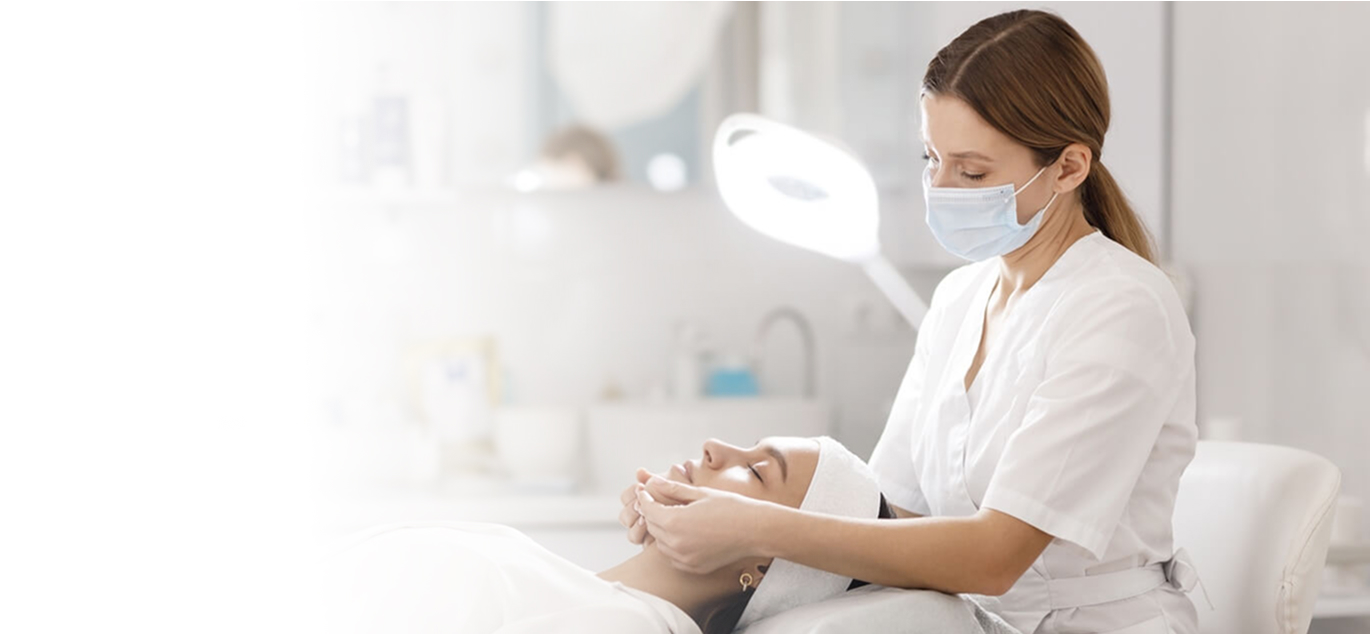
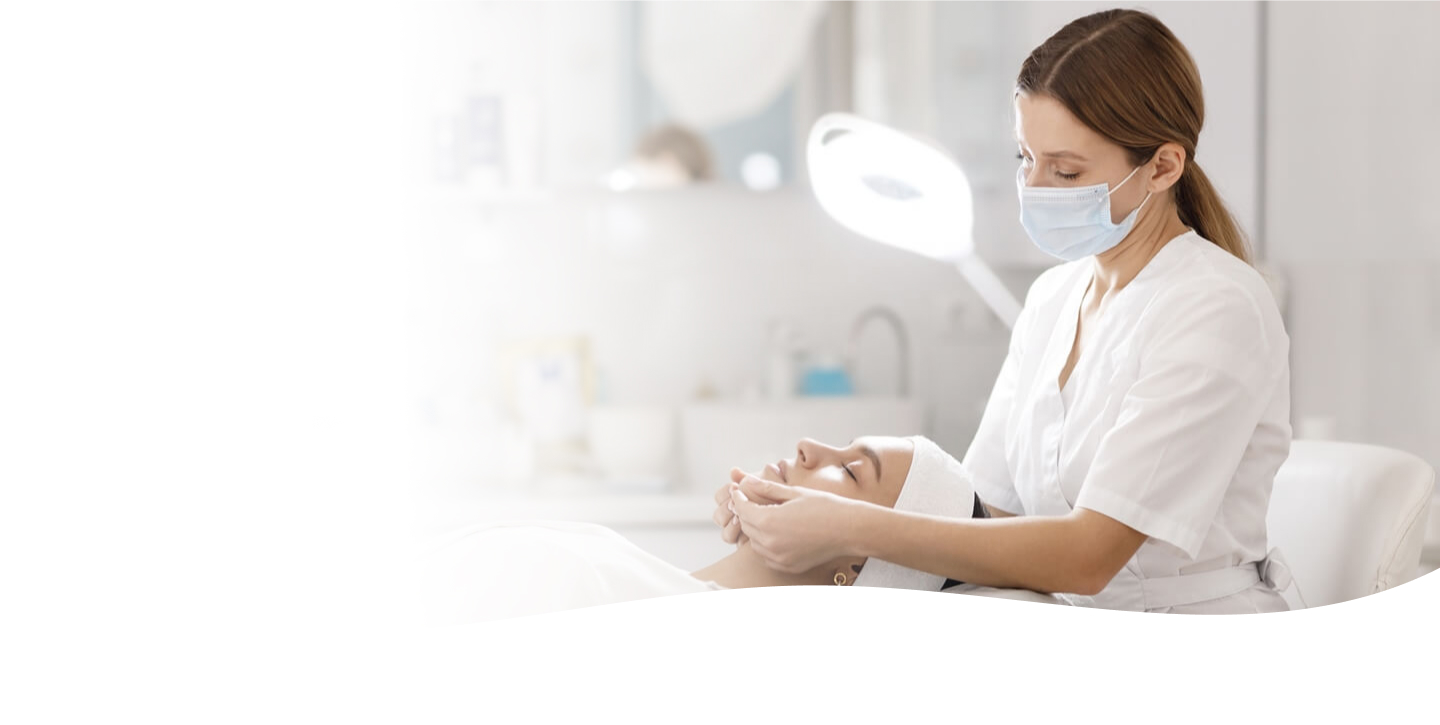
donloaded images and update scss

diff --git a/scss/main.min.css b/scss/main.min.css
@@ -1,1 +1,1 @@
-@font-face{font-display:swap;font-family:"Roboto";font-style:normal;font-weight:400;src:url("../fonts/roboto-v48-latin-regular.woff2") format("woff2")}@font-face{font-display:swap;font-family:"Roboto";font-style:normal;font-weight:600;src:url("../fonts/roboto-v48-latin-600.woff2") format("woff2")}@font-face{font-display:swap;font-family:"Play";font-style:normal;font-weight:400;src:url("../fonts/play-v20-latin-regular.woff2") format("woff2")}@font-face{font-display:swap;font-family:"Play";font-style:normal;font-weight:700;src:url("../fonts/play-v20-latin-700.woff2") format("woff2")}:root{--color-brand-dark: #011c44;--color-brand-dark_blue: #000080;--color-brand-light: #fff;--color-primary-blue: #2b7fff;--color-secondary-light: #4a4a4a;--color-secondary-grey: #747272}body{margin:0;color:var(--color-brand-dark);background-color:var(--color-brand-light);font-family:"Play",sans-serif;font-size:18px;font-weight:400;line-height:1.5}@media screen and (min-width: 768px){body{font-size:22px}}h1,h2,h3,h4,h5,h6,p{margin-top:0}img{display:block;max-width:100%;height:auto}a{display:inline-block}ul{margin:0;padding:0;list-style-type:none}.container{width:100%;max-width:1440px;margin:0 auto}.text-brand{color:var(--color-primary-blue);text-transform:capitalize}.text-bold{max-width:500px;text-transform:capitalize}.dark{color:var(--color-brand-dark);font-weight:bold}.section{padding:20px 0}@media screen and (min-width: 768px){.section{padding:48px 0}}.section__title{padding:96px 0 48px}.section__title--centered{text-align:center}.courusel-button{display:flex;align-items:center;justify-content:center;flex-shrink:0;width:44px;height:44px;border-radius:50%;padding:0;fill:var(--color-brand-dark);background-color:rgba(0,0,0,0);border:1px solid var(--color-brand-dark);cursor:pointer}.courusel-button.next{transform:rotate(180deg)}.courusel-button:hover{fill:var(--color-brand-light);background-color:var(--color-primary-blue)}.overlay{position:absolute;max-width:100%;max-height:100%;width:327px;height:307px;border-radius:50%;-o-object-fit:cover;object-fit:cover;box-shadow:0 4px 12px rgba(0,0,0,.25)}.star-field{position:relative;width:100%;height:652px;background:#fff;overflow:hidden;display:flex;align-items:center;justify-content:center}@media screen and (min-width: 1280px){.star-field__image_2{position:absolute;width:40px;height:40px;display:inline-block;background-image:url(../images/Star_2.svg);transform:rotate(0deg);animation:twinkle ease-in-out infinite;animation-duration:4s;animation-delay:0s}}.star-field__image_1{position:absolute;width:64px;height:64px;display:inline-block;background-image:url(../images/Star_1.svg)}@media screen and (min-width: 1280px){.star-field__image_1{transform:rotate(0deg);animation:twinkle ease-in-out infinite;animation-duration:4s;animation-delay:0s}}@media screen and (min-width: 1280px){.star-field__image_3{position:absolute;width:16px;height:16px;display:inline-block;background-image:url(../images/Star_3.svg);transform:rotate(0deg);animation:twinkle ease-in-out infinite;animation-duration:4s;animation-delay:0s}}.star-field__image_2{top:10px;right:78px;animation-delay:0s}.star-field__image_1{top:320px;left:1px;animation-delay:-1s}@media screen and (min-width: 1280px){.star-field__image_1{top:320px;left:144px}}.star-field__image_3{top:200px;right:100px;animation-delay:-2s}@keyframes twinkle{0%{opacity:0;transform:translateY(20px) scale(0.8) rotate(0deg)}25%{opacity:1;transform:translateY(0) scale(1)}50%{opacity:.8;transform:translateY(-6px) scale(1.05) rotate(10deg)}75%{opacity:1;transform:translateY(0) scale(0.98) rotate(-8deg)}100%{opacity:0;transform:translateY(20px) scale(0.8) rotate(0deg)}}.why_we{margin:29px auto 0;display:flex;justify-content:space-around}.why_we__text{font-size:18px;font-weight:400;line-height:1.33;text-align:center;padding:8px 25px 24px}.our_procedures-card{position:relative;display:flex;flex-direction:column;justify-content:flex-end;height:456px;padding-top:24px;border-radius:4px 120px;background-image:linear-gradient(180deg, rgba(1, 28, 68, 0) 47.4%, rgba(1, 28, 68, 0.73) 82.66%, #011c44 99.06%);overflow:hidden}.our_procedures-card__title{font-weight:400;font-size:22px;line-height:118%;color:var(--color-brand-light);display:flex;justify-content:center;text-align:center}.our_procedures-card__image{position:absolute;top:0;left:0;width:100%;height:100%;-o-object-fit:cover;object-fit:cover;z-index:-1}.backdrop{position:fixed;top:0;right:0;left:0;bottom:0;display:flex;align-items:center;justify-content:center;background-color:rgba(1,31,74,.4);padding:20px 20px;transition:opacity .3s,visibility .3s}.backdrop.is-hidden{opacity:0;visibility:hidden;pointer-events:none}.modal{position:relative;width:100%;height:100%;border-radius:32px;padding:21px 74px;background-color:var(--color-brand-dark);background-image:url(../images/background_footer.png);color:var(--color-brand-light);overflow-y:auto}@media screen and (min-width: 768px){.modal{padding:42px 144px;width:723px;height:681px}}.modal__close-btn{position:absolute;background-color:rgba(0,0,0,0);border:none;top:42px;right:42px}.modal__field{margin:24px auto}.modal__title{font-weight:500;font-size:32px;text-align:center}@media screen and (min-width: 768px){.modal__title{font-weight:700;font-size:64px}}.modal__text{margin:40px auto;max-width:450px;font-weight:600;font-size:22px;text-align:center}.modal__button{display:block;margin:0 auto 8px}.pagination{display:flex;align-items:center;gap:24px;justify-content:center}.pagination__button{background-color:var(--color-secondary-grey);width:12px;height:12px;border-radius:50%;padding:0}.pagination__button--active{background-color:var(--color-primary-blue)}.input{display:block}.input__control{padding:24px 32px;width:100%;font-size:13px;line-height:.7;border:1px solid var(--color-secondary-grey);border-radius:32px;background-color:rgba(0,0,0,0)}.input__control:focus{background-color:var(--color-secondary-grey);outline:none}.input__control::-moz-placeholder{font-size:13px;line-height:.7;color:var(--color-brand-light)}.input__control::placeholder{font-size:13px;line-height:.7;color:var(--color-brand-light)}.terms{max-width:210px;margin:0 auto;font-weight:400;font-size:12px;line-height:1.5;text-align:center;color:var(--color-secondary-grey)}.terms__link{color:var(--color-secondary-grey);text-underline-offset:2px}.visually-hidden{position:absolute;left:-10000px;top:auto;width:1px;height:1px;overflow:hidden}.visualy-section{margin-top:32px}.button_two{padding:16px 32px;border-radius:32px;width:281px;height:53px;font-family:"Roboto",sans-serif;color:var(--color-brand-light);background-color:var(--color-primary-blue);cursor:pointer;align-items:center}.button_two:hover{color:#000;background-color:rgba(0,0,0,0)}.header{position:absolute;top:0;left:0;width:100%}.header__container{display:flex;align-items:center;justify-content:space-around;gap:40px;padding-top:16px}@media screen and (min-width: 1280px){.header__container{padding-top:32px}}.header__nav{display:flex;align-items:center;flex-grow:1}.header__logo{margin:1px 0 auto;padding:17px 0 0 19px}@media screen and (min-width: 1280px){.header__logo{padding:32px 0 0 99px}}.header__menu{display:none}@media screen and (min-width: 1280px){.header__menu{display:flex;padding-top:32px;gap:56px;flex-grow:1;justify-content:center}}.header__link{color:var(--color-brand-dark);text-decoration:none;transition:color .3s}.header__link:hover{color:var(--color-primary-blue);text-decoration:none}.header__adress{display:none}@media screen and (min-width: 1280px){.header__adress{max-width:160px;margin:32px auto;padding-top:32px;display:flex;justify-content:end;align-items:end;gap:32px}}.header__burger{background-color:rgba(0,0,0,0);border:none;height:24px;width:24px;fill:var(--color-brand-light);padding:0;margin:1px 16px 17px auto;align-items:end}@media screen and (min-width: 1280px){.header__burger{display:none}}.mobile-menu{position:fixed;top:0;left:0;width:100%;height:100%;background-color:var(--color-brand-light);transform:translateX(100%);transition:transform .3s}.mobile-menu.is-open{transform:translateX(0)}.mobile-menu__btn-close{position:absolute;border:none;background-color:rgba(0,0,0,0);cursor:pointer;top:16px;right:20px}.mobile-menu__nav{align-items:left;flex-grow:1}.mobile-menu__list{display:flex;flex-direction:column;padding:32px 0 0 28px;gap:16px}.mobile-menu__link{font-family:"Roboto",sans-serif;font-weight:700;font-size:14px;color:var(--color-brand-dark);text-decoration:none;transition:color .3s}.mobile-menu__link:hover{color:var(--color-primary-blue);text-decoration:none}.mobile-menu__icons{display:flex;gap:16px;padding:32px 0 0 28px}.hero-section{padding:16px 0 335px}.hero-section__image{padding-top:1px;background-image:url("../images/hero-mobile.jpg");background-repeat:no-repeat;background-position:center top;background-size:cover}@media screen and (min-width: 768px){.hero-section__image{background-image:linear-gradient(94deg, #fff 9.65%, rgba(255, 255, 255, 0.85) 26.08%, rgba(255, 255, 255, 0.19) 52.74%, rgba(255, 255, 255, 0) 74.46%),url("../images/hero.jpg")}}@media screen and (min-device-pixel-ratio: 2){.hero-section__image{background-image:linear-gradient(94deg, #fff 9.65%, rgba(255, 255, 255, 0.85) 26.08%, rgba(255, 255, 255, 0.19) 52.74%, rgba(255, 255, 255, 0) 74.46%),url("../images/hero@2x.jpg")}}.hero-section__stick{display:flex;margin:0 auto;padding:72px 116px 0;align-items:center;justify-content:center;color:var(--color-brand-dark);font-family:"Play",sans-serif;font-weight:400;font-size:18px}@media screen and (min-width: 768px){.hero-section__stick{display:block;padding:158px 0 0;margin:2px 150px 0}}.hero-section__title{margin:4px auto 0;max-width:319px;height:64px;color:var(--color-primary-blue);font-family:"Play",sans-serif;text-transform:capitalize;font-size:54px;font-weight:700;line-height:1%;text-transform:capitalize}@media screen and (min-width: 768px){.hero-section__title{color:var(--color-brand-dark_blue);margin:16px 0 0 106px;font-size:140px;max-width:529px;line-height:81%;padding-bottom:143px}}.hero-section__button{display:block;border-radius:32px;margin:0 auto;width:220px;height:55px;font-family:"Roboto",sans-serif;font-weight:600;font-size:18px;color:var(--color-brand-light);background-color:var(--color-primary-blue);cursor:pointer}@media screen and (min-width: 768px){.hero-section__button{margin:40px 0 0 106px}}.hero-section__button:hover{color:#000;background-color:rgba(0,0,0,0)}.hero-section__contacts-list{display:flex;flex-direction:column;justify-content:center;align-items:center;font-weight:400;height:36px;font-size:12px;line-height:150%;padding:16px 86px 0;color:var(--color-secondary-grey);margin:0 auto}@media screen and (min-width: 768px){.hero-section__contacts-list{display:block;margin:0 auto;padding-left:106px;color:var(--color-secondary-light)}}.about-section__tipe{padding:58px 0;display:flex;margin:0 auto;max-width:1245px;gap:32px}.about-section__container{display:flex;max-width:700px;flex-direction:column;align-items:flex-start}.about-section__title{font-weight:700;font-size:32px;margin-bottom:40px;padding-left:20px}@media screen and (min-width: 768px){.about-section__title{font-size:64px}}.about-section__cosmetic{padding-bottom:0}.about-section__text{padding-left:20px;max-width:650px;margin-bottom:24px}.about-section__text:last-child{max-width:850px;margin-bottom:0}.about-section__image{position:relative;width:700px;height:400px;overflow:hidden}@media screen and (min-width: 1280px){.about-section__image{height:652px}}@media screen and (min-width: 1280px){.about-section__face_image{top:14px;left:14px}}@media screen and (min-width: 1280px){.about-section__face_image-2{top:340px;bottom:16px;right:16px}}.why_do_we-section{display:block;padding:40px 0;background-image:url(../images/background_image3.svg);background-repeat:no-repeat;background-position:center top;background-size:cover}@media screen and (min-width: 768px){.why_do_we-section{padding:176px 0 48px;background-image:url(../images/background_image3.svg);background-repeat:no-repeat;background-position:center top;background-size:cover}}.why_do_we-section__title{font-weight:500;font-size:32px;max-width:300px;text-align:center;margin:52px auto}@media screen and (min-width: 768px){.why_do_we-section__title{font-weight:700;font-size:64px;max-width:500px;text-align:center;margin:0 auto}}.why_do_we-section__choose{margin:0 auto;padding:24px 21px}@media screen and (min-width: 768px){.why_do_we-section__choose{padding:24px 32px;display:flex;margin:48px auto 0;gap:56px;max-width:1060px}}.why_do_we-section__content{max-width:316px;width:100%;border:1px solid #d9d9d9;background-color:var(--color-brand-light);border-radius:24px;margin:8px 21px;transition:transform .3s}.why_do_we-section__content:hover{transform:scale(1.05)}@media screen and (min-width: 768px){.why_do_we-section__content{max-width:400px;width:100%;border:1px solid #d9d9d9;background-color:var(--color-brand-light);border-radius:32px;margin-bottom:8px;transition:transform .3s}}.our_procedures-section__hero{font-weight:500;font-size:32px;text-align:center;max-width:1216px;margin:0 auto 48px;text-align:center}@media screen and (min-width: 768px){.our_procedures-section__hero{font-weight:700;font-size:64px}}.our_procedures-section__slider{display:flex;align-items:center;margin:0 auto;gap:32px;justify-content:center}.our_procedures-section__container{overflow:hidden}.our_procedures-section__list{margin-bottom:32px}.our_procedures-section__button{display:none}@media screen and (min-width: 768px){.our_procedures-section__button{display:flex}}.contact-section{padding-bottom:0}@media screen and (min-width: 768px){.contact-section{padding-bottom:96px}}.contact-section__hero{font-weight:500;font-size:32px;text-align:center;margin:0 auto 48px;max-width:500px}@media screen and (min-width: 768px){.contact-section__hero{font-weight:700;font-size:64px}}.contact-section__container{max-width:1059px;margin:0 auto;display:flex;flex-direction:column-reverse;justify-content:center;gap:24px}@media screen and (min-width: 768px){.contact-section__container{flex-direction:row;gap:32px}}.contact-section__map{margin:0 -24px;height:232px;flex-shrink:0;border-radius:16px;border:none}@media screen and (min-width: 768px){.contact-section__map{width:300px;height:240px;margin:auto}}@media screen and (min-width: 1280px){.contact-section__map{width:600px;height:480px}}.contact-section__modal{width:320px;display:flex;margin:0 auto;flex-direction:column;justify-content:center;align-items:center;border-radius:32px;padding:24px 56px;background-color:var(--color-brand-dark);background-image:url(../images/background_footer.png);color:var(--color-brand-light)}@media screen and (min-width: 768px){.contact-section__modal{width:422px}}.contact-section__form_title{font-weight:600;font-size:22px;text-align:center}.contact-section__form_field{margin-bottom:16px;padding-right:57px;align-items:center}.contact-section__btn{display:block;margin-bottom:8px}.footer{position:relative;text-align:center;padding:56px 0;background-color:var(--color-brand-dark);background-image:url(../images/background_footer.png);background-repeat:no-repeat;background-size:cover;background-position:center}@media screen and (min-width: 768px){.footer{text-align:left}}@media screen and (min-width: 768px){.footer::after{position:absolute;bottom:0;right:0;width:250px;height:150px;background-image:url(../images/liki.png);background-repeat:no-repeat;content:""}}.footer__ccontainer{display:flex;gap:20px;flex-direction:column}@media screen and (min-width: 768px){.footer__ccontainer{flex-direction:row}}.footer__nav,.footer__adress{display:flex;flex-direction:column;margin:0 auto;gap:20px}@media screen and (min-width: 768px){.footer__nav,.footer__adress{flex-basis:50%;flex-direction:row}}.footer__logo{flex-grow:1;margin:0 auto}.footer__menu{flex-grow:1}.footer__adress-list{flex-grow:1;display:none}@media screen and (min-width: 768px){.footer__adress-list{display:block}}.footer__adress-info{flex-grow:1}.footer__icons{gap:24px;display:flex}@media screen and (min-width: 768px){.footer__icons{position:absolute;top:180px;bottom:50px}}.footer__link{color:var(--color-brand-light);font-weight:400;font-size:16px;text-decoration:none;transition:color .3s}.footer__link:hover{color:var(--color-primary-blue);text-decoration:none}.footer__politic{display:none}@media screen and (min-width: 768px){.footer__politic{display:block}}.footer__copirght{color:var(--color-secondary-grey);font-weight:400;font-size:13px}/*# sourceMappingURL=main.min.css.map */
+@font-face{font-display:swap;font-family:"Roboto";font-style:normal;font-weight:400;src:url("../fonts/roboto-v48-latin-regular.woff2") format("woff2")}@font-face{font-display:swap;font-family:"Roboto";font-style:normal;font-weight:600;src:url("../fonts/roboto-v48-latin-600.woff2") format("woff2")}@font-face{font-display:swap;font-family:"Play";font-style:normal;font-weight:400;src:url("../fonts/play-v20-latin-regular.woff2") format("woff2")}@font-face{font-display:swap;font-family:"Play";font-style:normal;font-weight:700;src:url("../fonts/play-v20-latin-700.woff2") format("woff2")}:root{--color-brand-dark: #011c44;--color-brand-dark_blue: #000080;--color-brand-light: #fff;--color-primary-blue: #2b7fff;--color-secondary-light: #4a4a4a;--color-secondary-grey: #747272}body{margin:0;color:var(--color-brand-dark);background-color:var(--color-brand-light);font-family:"Play",sans-serif;font-size:18px;font-weight:400;line-height:1.5}@media screen and (min-width: 768px){body{font-size:22px}}h1,h2,h3,h4,h5,h6,p{margin-top:0}img{display:block;max-width:100%;height:auto}a{display:inline-block}ul{margin:0;padding:0;list-style-type:none}.container{width:100%;max-width:1440px;margin:0 auto}.text-brand{color:var(--color-primary-blue);text-transform:capitalize}.text-bold{max-width:500px;text-transform:capitalize}.dark{color:var(--color-brand-dark);font-weight:bold}.section{padding:20px 0}@media screen and (min-width: 768px){.section{padding:48px 0}}.section__title{padding:96px 0 48px}.section__title--centered{text-align:center}.courusel-button{display:flex;align-items:center;justify-content:center;flex-shrink:0;width:44px;height:44px;border-radius:50%;padding:0;fill:var(--color-brand-dark);background-color:rgba(0,0,0,0);border:1px solid var(--color-brand-dark);cursor:pointer}.courusel-button.next{transform:rotate(180deg)}.courusel-button:hover{fill:var(--color-brand-light);background-color:var(--color-primary-blue)}.overlay{position:absolute;max-width:100%;max-height:100%;width:327px;height:307px;border-radius:50%;-o-object-fit:cover;object-fit:cover;box-shadow:0 4px 12px rgba(0,0,0,.25)}.star-field{position:relative;width:100%;height:652px;background:#fff;overflow:hidden;display:flex;align-items:center;justify-content:center}@media screen and (min-width: 1280px){.star-field__image_2{position:absolute;width:40px;height:40px;display:inline-block;background-image:url(../images/Star_2.svg);transform:rotate(0deg);animation:twinkle ease-in-out infinite;animation-duration:4s;animation-delay:0s}}.star-field__image_1{position:absolute;width:64px;height:64px;display:inline-block;background-image:url(../images/Star_1.svg)}@media screen and (min-width: 1280px){.star-field__image_1{transform:rotate(0deg);animation:twinkle ease-in-out infinite;animation-duration:4s;animation-delay:0s}}@media screen and (min-width: 1280px){.star-field__image_3{position:absolute;width:16px;height:16px;display:inline-block;background-image:url(../images/Star_3.svg);transform:rotate(0deg);animation:twinkle ease-in-out infinite;animation-duration:4s;animation-delay:0s}}.star-field__image_2{top:10px;right:78px;animation-delay:0s}.star-field__image_1{top:320px;left:1px;animation-delay:-1s}@media screen and (min-width: 1280px){.star-field__image_1{top:320px;left:144px}}.star-field__image_3{top:200px;right:100px;animation-delay:-2s}@keyframes twinkle{0%{opacity:0;transform:translateY(20px) scale(0.8) rotate(0deg)}25%{opacity:1;transform:translateY(0) scale(1)}50%{opacity:.8;transform:translateY(-6px) scale(1.05) rotate(10deg)}75%{opacity:1;transform:translateY(0) scale(0.98) rotate(-8deg)}100%{opacity:0;transform:translateY(20px) scale(0.8) rotate(0deg)}}.why_we{margin:29px auto 0;display:flex;justify-content:space-around}.why_we__text{font-size:18px;font-weight:400;line-height:1.33;text-align:center;padding:8px 25px 24px}.our_procedures-card{position:relative;display:flex;flex-direction:column;justify-content:flex-end;height:456px;padding-top:24px;border-radius:4px 120px;background-image:linear-gradient(180deg, rgba(1, 28, 68, 0) 47.4%, rgba(1, 28, 68, 0.73) 82.66%, #011c44 99.06%);overflow:hidden}.our_procedures-card__title{font-weight:400;font-size:22px;line-height:118%;color:var(--color-brand-light);display:flex;justify-content:center;text-align:center}.our_procedures-card__image{position:absolute;top:0;left:0;width:100%;height:100%;-o-object-fit:cover;object-fit:cover;z-index:-1}.backdrop{position:fixed;top:0;right:0;left:0;bottom:0;display:flex;align-items:center;justify-content:center;background-color:rgba(1,31,74,.4);padding:20px 20px;transition:opacity .3s,visibility .3s}.backdrop.is-hidden{opacity:0;visibility:hidden;pointer-events:none}.modal{position:relative;width:100%;height:100%;border-radius:32px;padding:21px 74px;background-color:var(--color-brand-dark);background-image:url(../images/background_footer.png);color:var(--color-brand-light);overflow-y:auto}@media screen and (min-width: 768px){.modal{padding:42px 144px;width:723px;height:681px}}.modal__close-btn{position:absolute;background-color:rgba(0,0,0,0);border:none;top:42px;right:42px}.modal__field{margin:24px auto}.modal__title{font-weight:500;font-size:32px;text-align:center}@media screen and (min-width: 768px){.modal__title{font-weight:700;font-size:64px}}.modal__text{margin:40px auto;max-width:450px;font-weight:600;font-size:22px;text-align:center}.modal__button{display:block;margin:0 auto 8px}.pagination{display:flex;align-items:center;gap:24px;justify-content:center}.pagination__button{background-color:var(--color-secondary-grey);width:12px;height:12px;border-radius:50%;padding:0}.pagination__button--active{background-color:var(--color-primary-blue)}.input{display:block}.input__control{padding:24px 32px;width:100%;font-size:13px;line-height:.7;border:1px solid var(--color-secondary-grey);border-radius:32px;background-color:rgba(0,0,0,0)}.input__control:focus{background-color:var(--color-secondary-grey);outline:none}.input__control::-moz-placeholder{font-size:13px;line-height:.7;color:var(--color-brand-light)}.input__control::placeholder{font-size:13px;line-height:.7;color:var(--color-brand-light)}.terms{max-width:210px;margin:0 auto;font-weight:400;font-size:12px;line-height:1.5;text-align:center;color:var(--color-secondary-grey)}.terms__link{color:var(--color-secondary-grey);text-underline-offset:2px}.visually-hidden{position:absolute;left:-10000px;top:auto;width:1px;height:1px;overflow:hidden}.visualy-section{margin-top:32px}.button_two{padding:16px 32px;border-radius:32px;width:281px;height:53px;font-family:"Roboto",sans-serif;color:var(--color-brand-light);background-color:var(--color-primary-blue);cursor:pointer;align-items:center}.button_two:hover{color:#000;background-color:rgba(0,0,0,0)}.header{position:absolute;top:0;left:0;width:100%}@media screen and (min-width: 1280px){.header{position:absolute}}.header__container{display:flex;align-items:center;justify-content:space-around;gap:40px;padding-top:16px}@media screen and (min-width: 1280px){.header__container{padding-top:32px}}.header__nav{display:flex;align-items:center;flex-grow:1}.header__logo{margin:1px 0 auto;padding:17px 0 0 19px}@media screen and (min-width: 1280px){.header__logo{padding:32px 0 0 99px}}.header__menu{display:none}@media screen and (min-width: 1280px){.header__menu{display:flex;padding-top:32px;gap:56px;flex-grow:1;justify-content:center}}.header__link{color:var(--color-brand-dark);text-decoration:none;transition:color .3s}.header__link:hover{color:var(--color-primary-blue);text-decoration:none}.header__adress{display:none}@media screen and (min-width: 1280px){.header__adress{max-width:160px;margin:32px auto;padding-top:32px;display:flex;justify-content:end;align-items:end;gap:32px}}.header__burger{background-color:rgba(0,0,0,0);border:none;height:24px;width:24px;fill:var(--color-brand-light);padding:0;margin:1px 16px 17px auto;align-items:end}@media screen and (min-width: 1280px){.header__burger{display:none}}.mobile-menu{position:fixed;top:0;left:0;width:100%;height:100%;background-color:var(--color-brand-light);transform:translateX(100%);transition:transform .3s}.mobile-menu.is-open{transform:translateX(0)}.mobile-menu__btn-close{position:absolute;border:none;background-color:rgba(0,0,0,0);cursor:pointer;top:16px;right:20px}.mobile-menu__nav{align-items:left;flex-grow:1}.mobile-menu__list{display:flex;flex-direction:column;padding:32px 0 0 28px;gap:16px}.mobile-menu__link{font-family:"Roboto",sans-serif;font-weight:700;font-size:14px;color:var(--color-brand-dark);text-decoration:none;transition:color .3s}.mobile-menu__link:hover{color:var(--color-primary-blue);text-decoration:none}.mobile-menu__icons{display:flex;gap:16px;padding:32px 0 0 28px}.hero-section{padding:16px 0 335px}.hero-section__image{padding-top:1px;background-image:url("../images/hero-mobile.jpg");background-repeat:no-repeat;background-position:center top;background-size:cover}@media screen and (min-width: 1280px){.hero-section__image{background-image:linear-gradient(94deg, #fff 9.65%, rgba(255, 255, 255, 0.85) 26.08%, rgba(255, 255, 255, 0.19) 52.74%, rgba(255, 255, 255, 0) 74.46%),url("../images/hero.jpg")}}.hero-section__stick{display:flex;margin:0 auto;padding:72px 116px 0;align-items:center;justify-content:center;color:var(--color-brand-dark);font-family:"Play",sans-serif;font-weight:400;font-size:18px}@media screen and (min-width: 360px){.hero-section__stick{display:block;padding:158px 0 0;margin:2px 85px 0}}.hero-section__title{margin:4px auto 0;max-width:319px;height:64px;color:var(--color-primary-blue);font-family:"Play",sans-serif;text-transform:capitalize;font-size:54px;font-weight:700;line-height:1%;text-transform:capitalize}@media screen and (min-width: 768px){.hero-section__title{color:var(--color-brand-dark_blue);margin:16px 0 0 106px;font-size:140px;max-width:529px;line-height:81%;padding-bottom:143px}}.hero-section__button{display:block;border-radius:32px;margin:0 auto;width:220px;height:55px;font-family:"Roboto",sans-serif;font-weight:600;font-size:18px;color:var(--color-brand-light);background-color:var(--color-primary-blue);cursor:pointer}@media screen and (min-width: 768px){.hero-section__button{margin:40px 0 0 106px}}.hero-section__button:hover{color:#000;background-color:rgba(0,0,0,0)}.hero-section__contacts-list{display:flex;flex-direction:column;justify-content:center;align-items:center;font-weight:400;height:36px;font-size:12px;line-height:150%;padding:16px 86px 0;color:var(--color-secondary-grey);margin:0 auto}@media screen and (min-width: 360px){.hero-section__contacts-list{display:block;margin:0 auto;padding-left:106px;color:var(--color-secondary-light)}}.about-section__tipe{padding:58px 0;display:flex;margin:0 auto;max-width:1245px;gap:32px}.about-section__container{display:flex;max-width:700px;flex-direction:column;align-items:flex-start}.about-section__title{font-weight:700;font-size:32px;margin-bottom:40px;padding-left:20px}@media screen and (min-width: 768px){.about-section__title{font-size:64px}}.about-section__cosmetic{padding-bottom:0}@media screen and (min-width: 768px){.about-section__cosmetic{padding-bottom:40px}}.about-section__text{padding-left:20px;max-width:650px;margin-bottom:24px}@media screen and (min-width: 360px){.about-section__text{font-size:18px}}.about-section__text:last-child{max-width:850px;margin-bottom:0}.about-section__image{position:relative;width:700px;height:400px;overflow:hidden}@media screen and (min-width: 1280px){.about-section__image{height:652px}}@media screen and (min-width: 1280px){.about-section__face_image{top:14px;left:14px}}@media screen and (min-width: 1280px){.about-section__face_image-2{top:340px;bottom:16px;right:16px}}.why_do_we-section{display:block;padding:40px 0;background-image:url(../images/background_image3.svg);background-repeat:no-repeat;background-position:center top;background-size:cover}@media screen and (min-width: 360px){.why_do_we-section{padding:176px 0 48px;background-image:url(../images/background_image3.svg);background-repeat:no-repeat;background-position:center top;background-size:cover}}.why_do_we-section__title{font-weight:500;font-size:32px;max-width:300px;text-align:center;margin:52px auto}@media screen and (min-width: 768px){.why_do_we-section__title{font-weight:700;font-size:64px;max-width:500px;text-align:center;margin:0 auto}}.why_do_we-section__choose{margin:0 auto;padding:24px 21px}@media screen and (min-width: 768px){.why_do_we-section__choose{padding:24px 32px;display:flex;margin:48px auto 0;gap:56px;max-width:1060px}}.why_do_we-section__content{max-width:316px;width:100%;border:1px solid #d9d9d9;background-color:var(--color-brand-light);border-radius:24px;margin:8px 21px;transition:transform .3s}.why_do_we-section__content:hover{transform:scale(1.05)}@media screen and (min-width: 360px){.why_do_we-section__content{max-width:400px;width:100%;border:1px solid #d9d9d9;background-color:var(--color-brand-light);border-radius:32px;margin-bottom:8px;transition:transform .3s}}.our_procedures-section__hero{font-weight:500;font-size:32px;text-align:center;max-width:1216px;margin:0 auto 48px;text-align:center}@media screen and (min-width: 768px){.our_procedures-section__hero{font-weight:700;font-size:64px}}.our_procedures-section__slider{display:flex;align-items:center;margin:0 auto;gap:32px;justify-content:center}.our_procedures-section__container{overflow:hidden}.our_procedures-section__list{margin-bottom:32px}.our_procedures-section__button{display:none}@media screen and (min-width: 768px){.our_procedures-section__button{display:flex}}.contact-section{padding-bottom:0}@media screen and (min-width: 768px){.contact-section{padding-bottom:96px}}.contact-section__hero{font-weight:500;font-size:32px;text-align:center;margin:0 auto 48px;max-width:500px}@media screen and (min-width: 768px){.contact-section__hero{font-weight:700;font-size:64px}}.contact-section__container{max-width:1059px;margin:0 auto;display:flex;flex-direction:column-reverse;justify-content:center;gap:24px}@media screen and (min-width: 768px){.contact-section__container{flex-direction:row;gap:32px}}.contact-section__map{margin:0 -24px;height:232px;flex-shrink:0;border-radius:16px;border:none}@media screen and (min-width: 768px){.contact-section__map{width:300px;height:240px;margin:auto}}@media screen and (min-width: 1280px){.contact-section__map{width:600px;height:480px}}.contact-section__modal{width:320px;display:flex;margin:0 auto;flex-direction:column;justify-content:center;align-items:center;border-radius:32px;padding:24px 56px;background-color:var(--color-brand-dark);background-image:url(../images/background_footer.png);color:var(--color-brand-light)}@media screen and (min-width: 768px){.contact-section__modal{width:422px}}.contact-section__form_title{font-weight:600;font-size:22px;text-align:center}.contact-section__form_field{margin-bottom:16px;padding-right:57px;align-items:center}.contact-section__btn{display:block;margin-bottom:8px}.footer{position:relative;text-align:center;padding:56px 0;background-color:var(--color-brand-dark);background-image:url(../images/background_footer.png);background-repeat:no-repeat;background-size:cover;background-position:center}@media screen and (min-width: 768px){.footer{text-align:left}}@media screen and (min-width: 768px){.footer::after{position:absolute;bottom:0;right:0;width:250px;height:150px;background-image:url(../images/liki.png);background-repeat:no-repeat;content:""}}.footer__ccontainer{display:flex;gap:20px;flex-direction:column}@media screen and (min-width: 768px){.footer__ccontainer{flex-direction:row}}.footer__nav,.footer__adress{display:flex;flex-direction:column;margin:0 auto;gap:20px}@media screen and (min-width: 768px){.footer__nav,.footer__adress{flex-basis:50%;flex-direction:row}}.footer__logo{flex-grow:1;margin:0 auto}.footer__menu{flex-grow:1}.footer__adress-list{flex-grow:1;display:none}@media screen and (min-width: 768px){.footer__adress-list{display:block}}.footer__adress-info{flex-grow:1}.footer__icons{gap:24px;display:flex}@media screen and (min-width: 768px){.footer__icons{position:absolute;top:180px;bottom:50px}}.footer__link{color:var(--color-brand-light);font-weight:400;font-size:16px;text-decoration:none;transition:color .3s}.footer__link:hover{color:var(--color-primary-blue);text-decoration:none}.footer__politic{display:none}@media screen and (min-width: 768px){.footer__politic{display:block}}.footer__copirght{color:var(--color-secondary-grey);font-weight:400;font-size:13px}/*# sourceMappingURL=main.min.css.map */

diff --git a/scss/loyalts/_hero-section.scss b/scss/loyalts/_hero-section.scss
@@ -7,7 +7,8 @@
     background-repeat: no-repeat;
     background-position: center top;
     background-size: cover;
-    @media screen and (min-width: $bp-tablet) {
+
+    @media screen and (min-width: $bp-desktop) {
       background-image: linear-gradient(
           94deg,
           #fff 9.65%,
@@ -16,17 +17,6 @@
           rgba(255, 255, 255, 0) 74.46%
         ),
         url("../images/hero.jpg");
-    }
-
-    @media screen and (min-device-pixel-ratio: 2) {
-      background-image: linear-gradient(
-          94deg,
-          #fff 9.65%,
-          rgba(255, 255, 255, 0.85) 26.08%,
-          rgba(255, 255, 255, 0.19) 52.74%,
-          rgba(255, 255, 255, 0) 74.46%
-        ),
-        url("../images/hero@2x.jpg");
     }
   }
   &__stick {
@@ -40,10 +30,10 @@
     font-weight: 400;
     font-size: 18px;
 
-    @media screen and (min-width: $bp-tablet) {
+    @media screen and (min-width: $bp-mobile) {
       display: block;
       padding: 158px 0 0;
-      margin: 2px 150px 0;
+      margin: 2px 85px 0;
     }
   }
 
@@ -103,7 +93,7 @@
     color: var(--color-secondary-grey);
     margin: 0 auto;
 
-    @media screen and (min-width: $bp-tablet) {
+    @media screen and (min-width: $bp-mobile) {
       display: block;
       margin: 0 auto;
       padding-left: 106px;

diff --git a/scss/loyalts/_why_do_we-section.scss b/scss/loyalts/_why_do_we-section.scss
@@ -5,7 +5,7 @@
   background-repeat: no-repeat;
   background-position: center top;
   background-size: cover;
-  @media screen and (min-width: $bp-tablet) {
+  @media screen and (min-width: $bp-mobile) {
     padding: 176px 0 48px;
     background-image: url(../images/background_image3.svg);
     background-repeat: no-repeat;
@@ -51,7 +51,7 @@
     &:hover {
       transform: scale(1.05);
     }
-    @media screen and (min-width: $bp-tablet) {
+    @media screen and (min-width: $bp-mobile) {
       max-width: 400px;
       width: 100%;
       border: 1px solid #d9d9d9;

diff --git a/scss/loyalts/_about_us-section.scss b/scss/loyalts/_about_us-section.scss
@@ -26,13 +26,15 @@
   &__cosmetic {
     padding-bottom: 0;
     @media screen and (min-width: $bp-tablet) {
+      padding-bottom: 40px;
     }
   }
   &__text {
     padding-left: 20px;
     max-width: 650px;
     margin-bottom: 24px;
-    @media screen and (min-width: $bp-tablet) {
+    @media screen and (min-width: $bp-mobile) {
+      font-size: 18px;
     }
 
     &:last-child {

diff --git a/scss/loyalts/_header.scss b/scss/loyalts/_header.scss
@@ -3,6 +3,9 @@
   top: 0;
   left: 0;
   width: 100%;
+  @media screen and (min-width: $bp-desktop) {
+    position: absolute;
+  }
 
   &__container {
     display: flex;

diff --git a/scss/utils/_variables.scss b/scss/utils/_variables.scss
@@ -7,6 +7,6 @@
   --color-secondary-grey: #747272;
 }
 
-$bp-mobile: 480px;
+$bp-mobile: 360px;
 $bp-tablet: 768px;
 $bp-desktop: 1280px;
